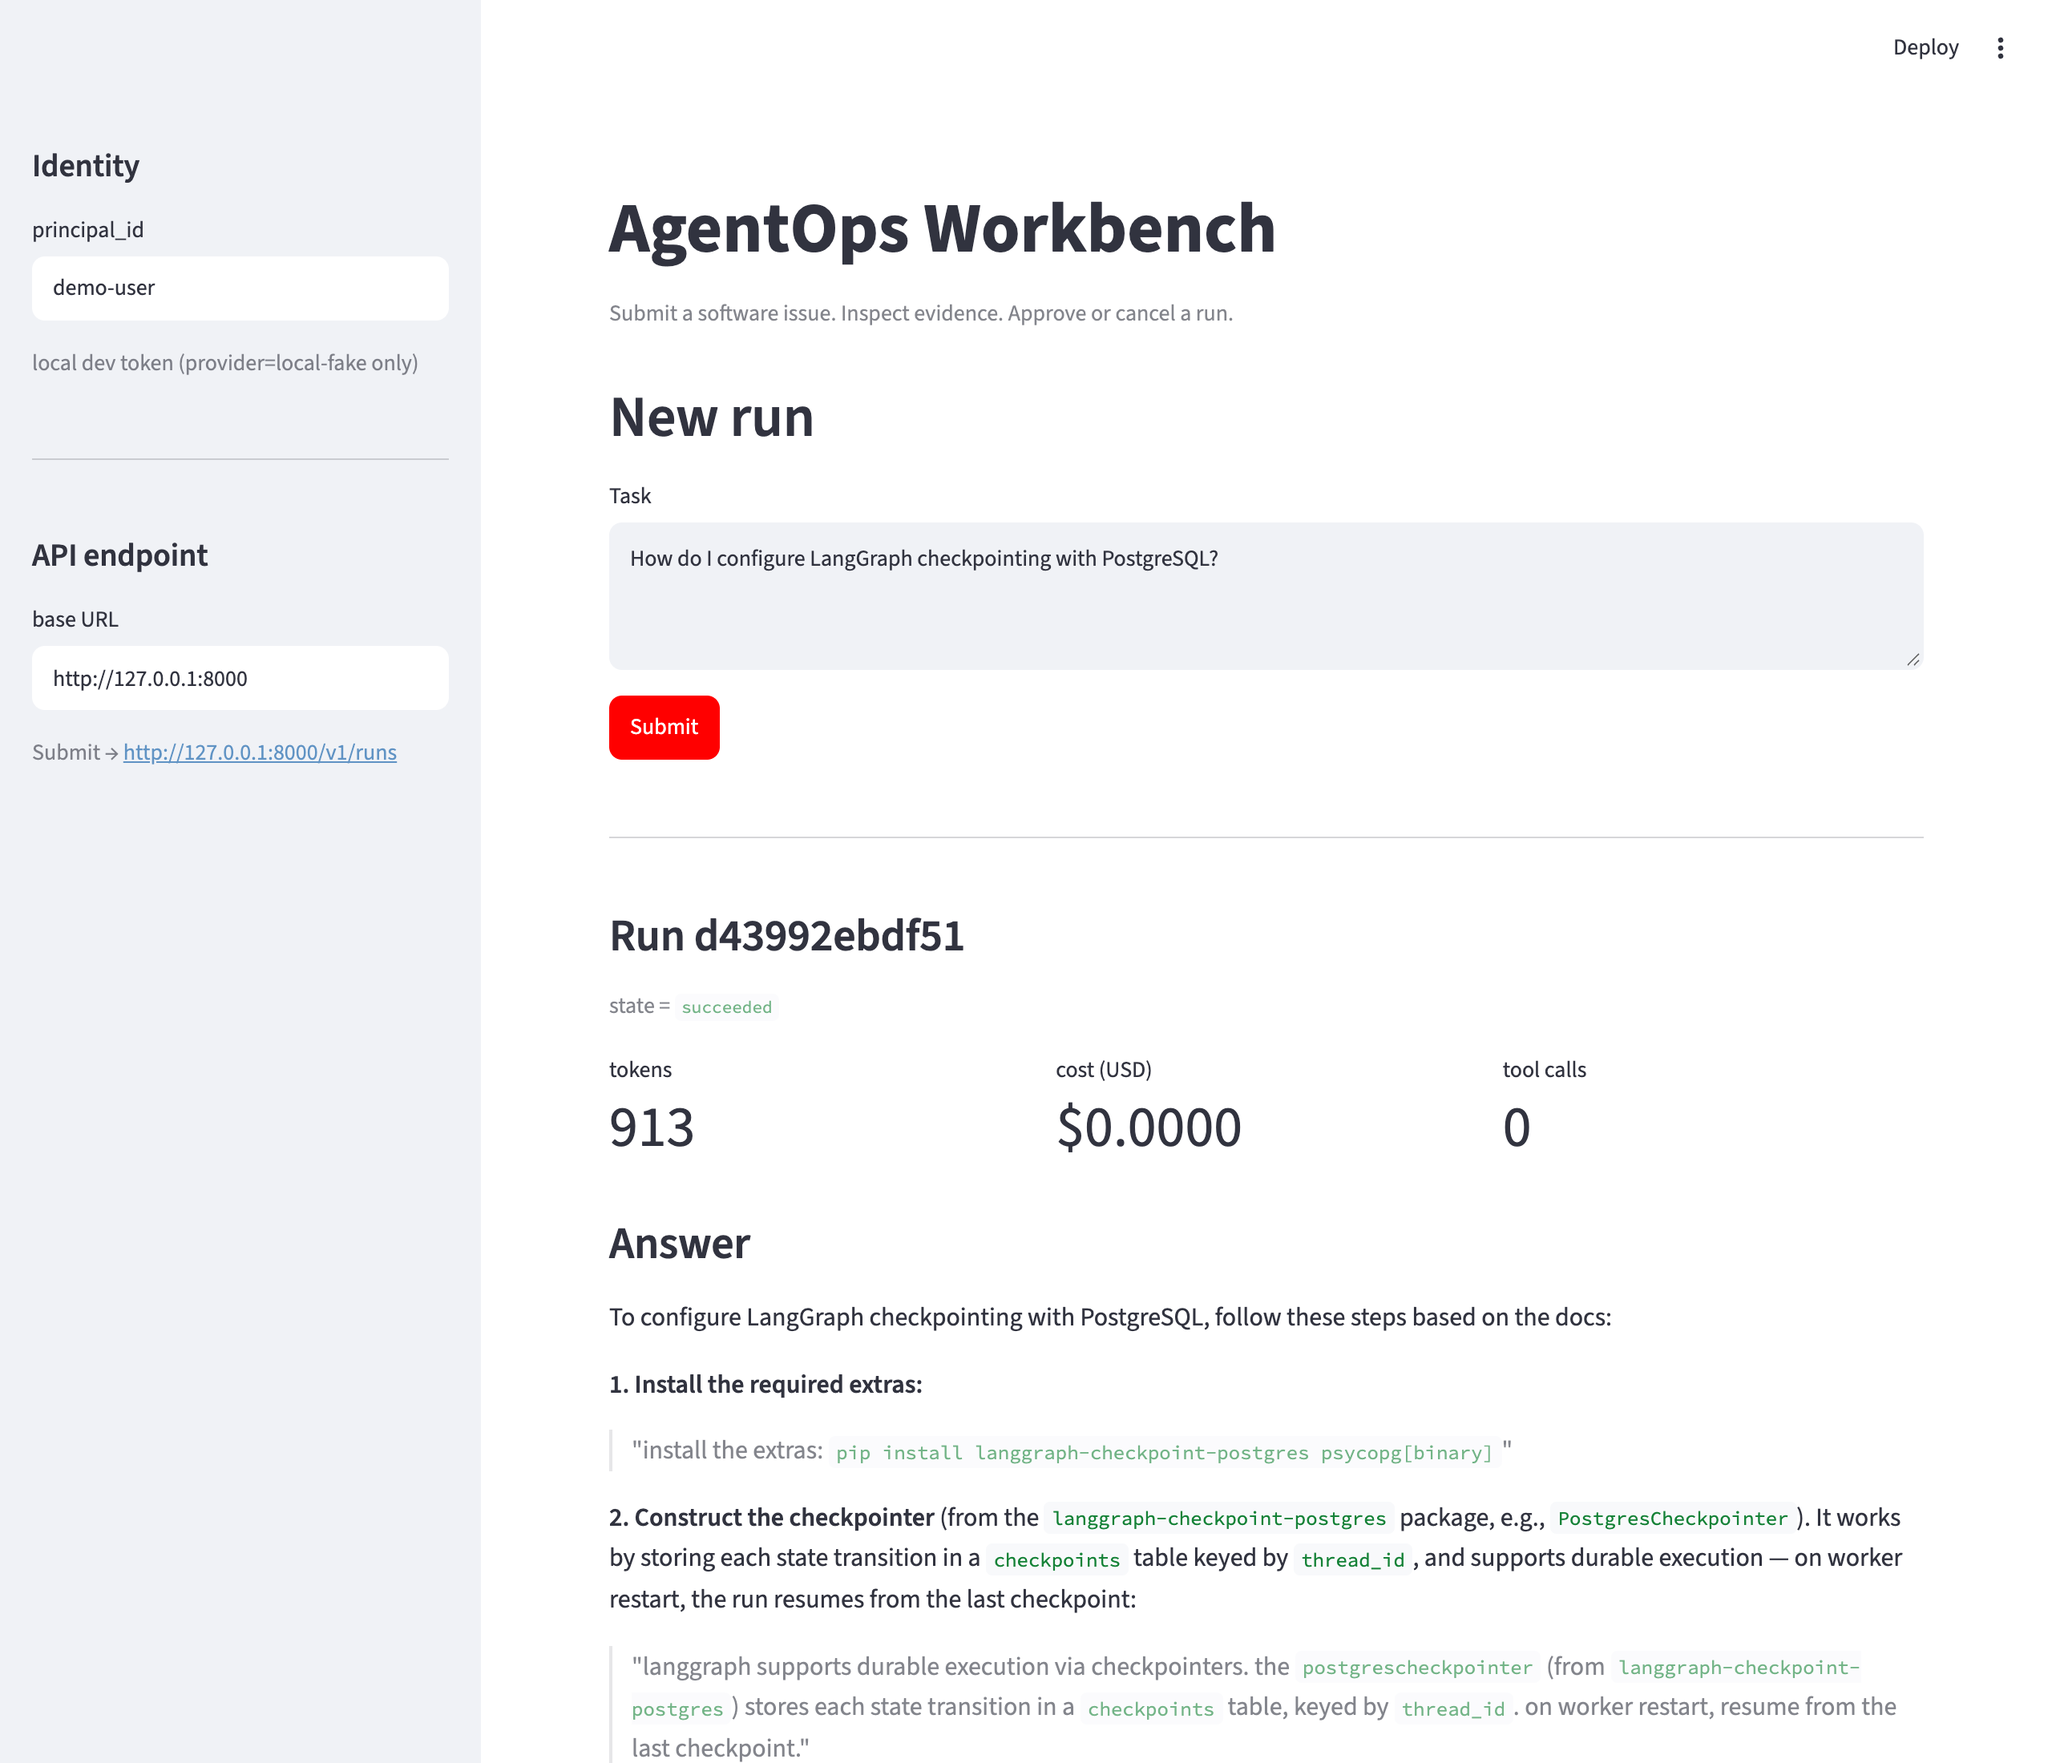
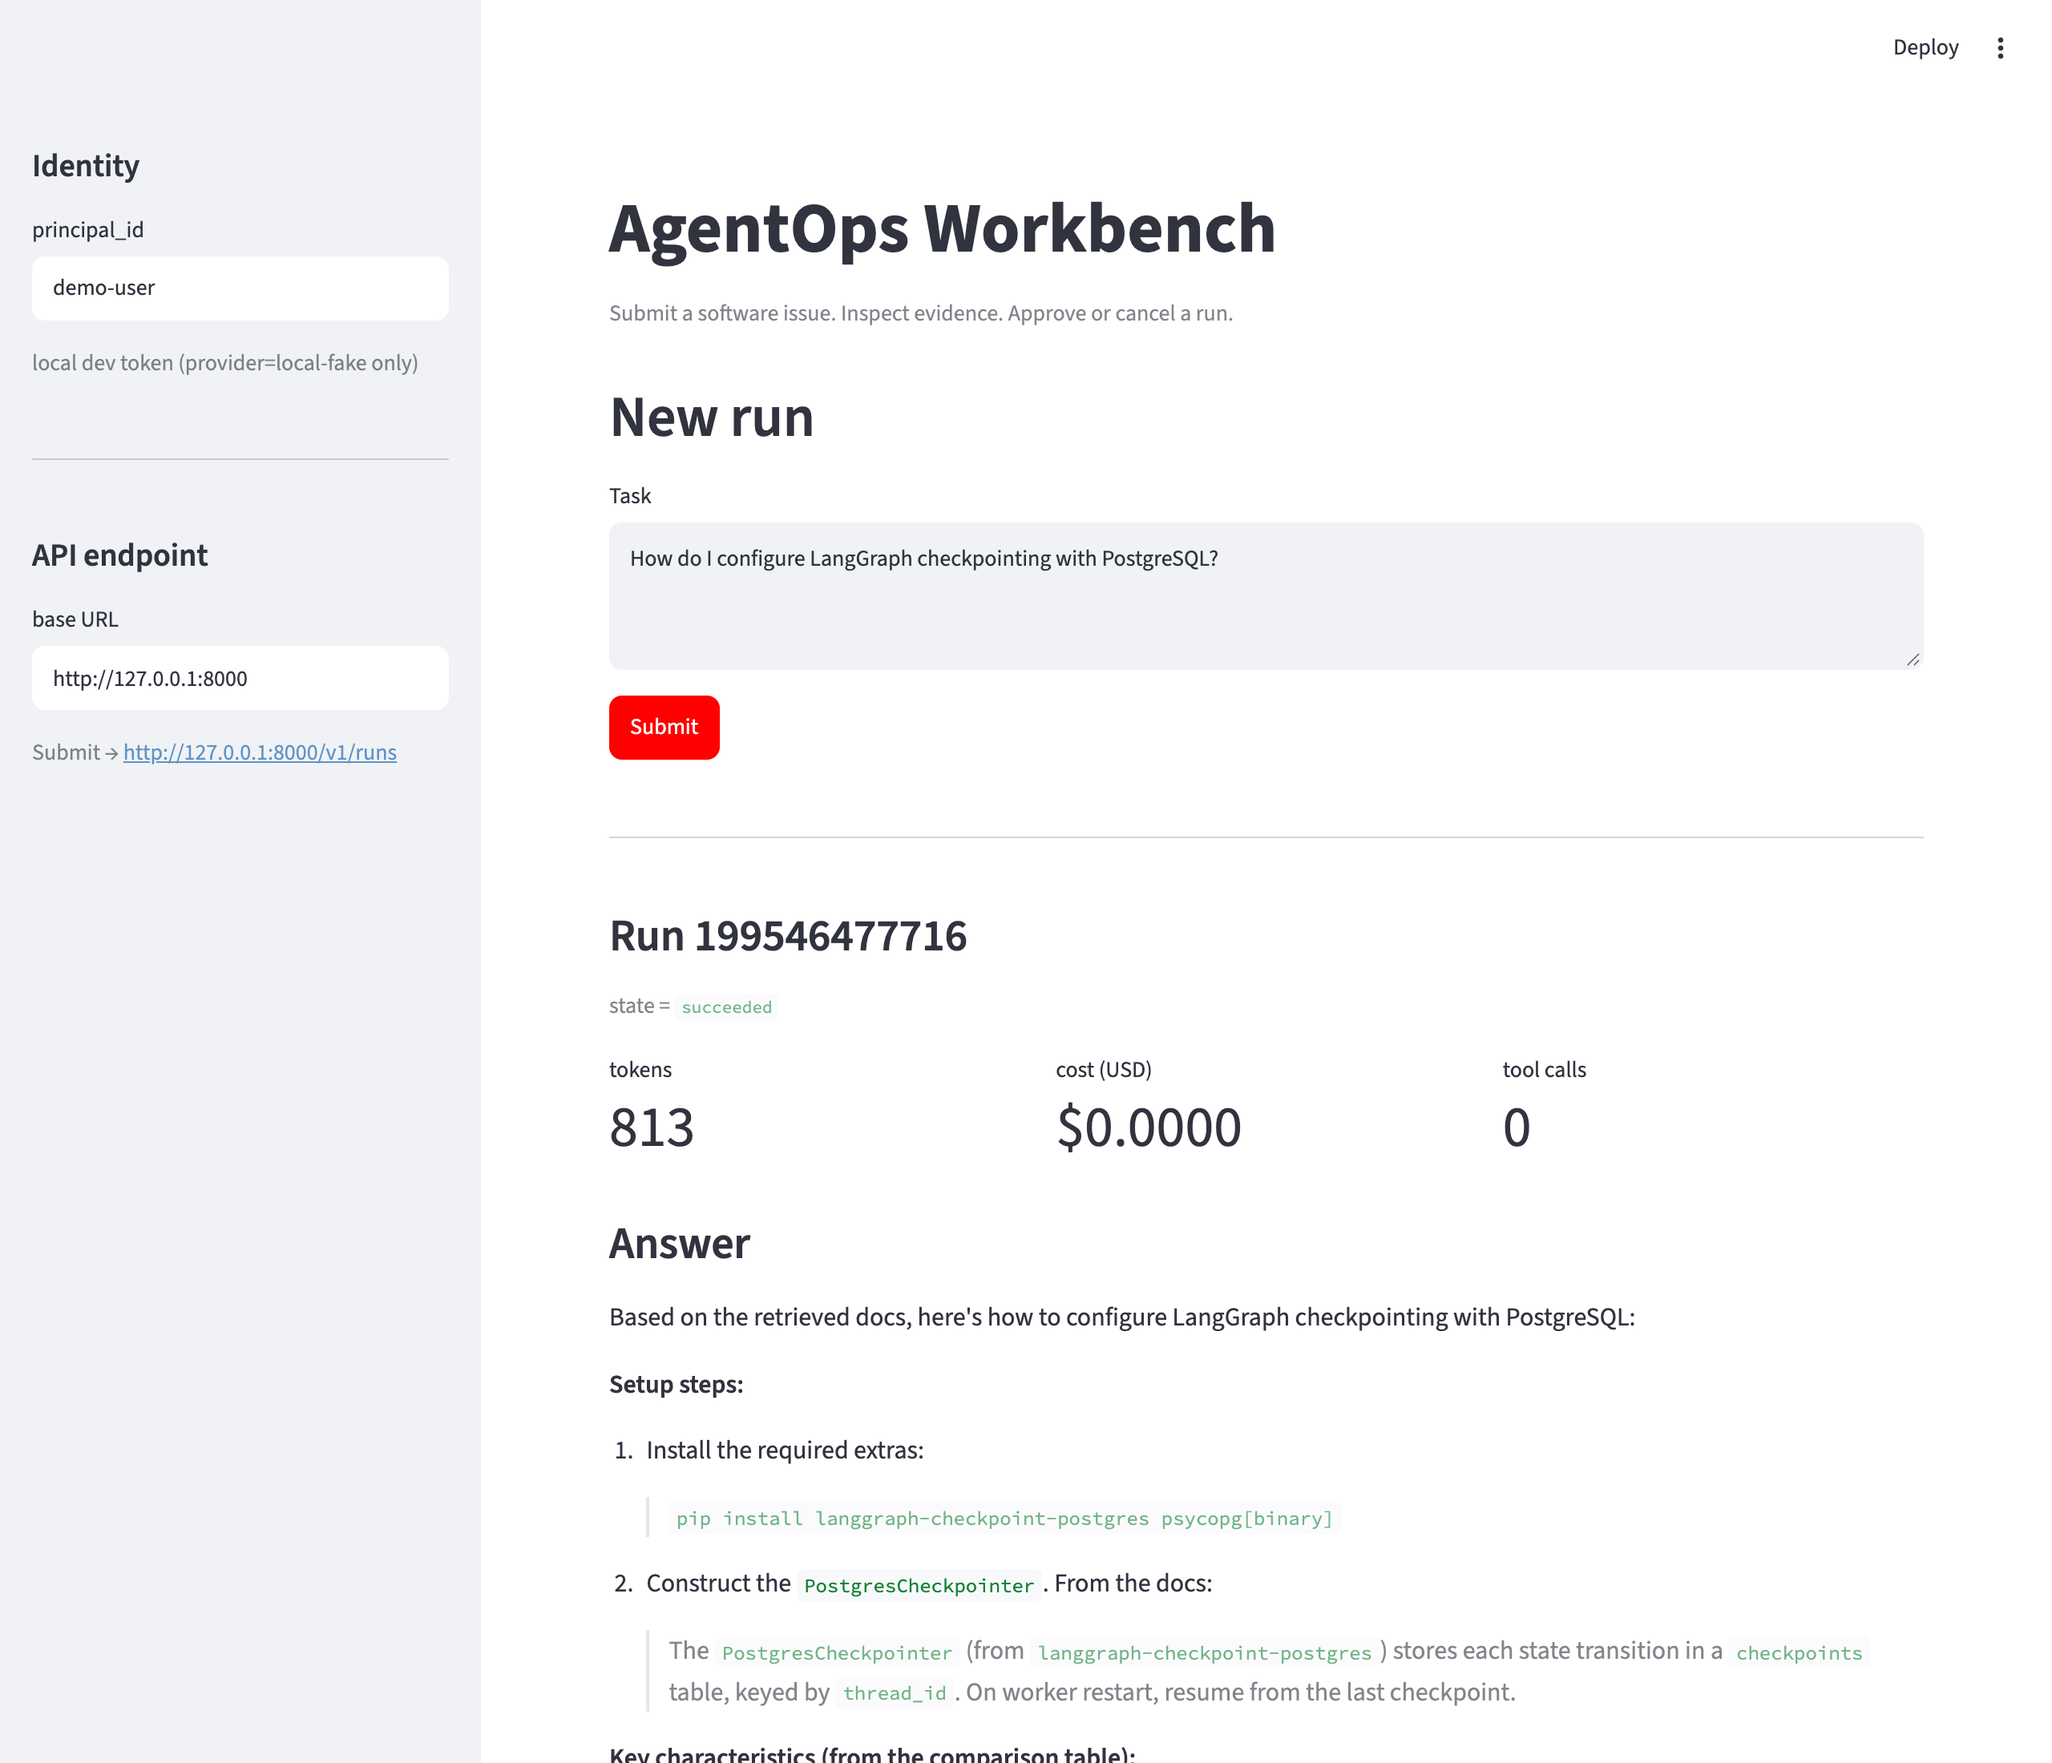
fix(workbench): address LLM review blockers in PR #15 (screenshot regen)
The /dev-kit:review (3-dim) LLM judge returned Verdict: Blocked on PR #15
with 2 critical + 3 major confirmed findings. This commit resolves all
five and the higher-confidence advisories.

Critical:
- C1: scripts/screenshot_streamlit.py imported playwright but
  pyproject.toml never declared it. Added playwright>=1.47 to
  [project.optional-dependencies].dev (uv.lock gains the package).
- C2: README's documented reproducer (uv run python scripts/...)
  crashed because uv sync --extra dev didn't install playwright.
  Fixed transitively by C1; added an explicit 'uv sync --extra dev'
  line before the script invocation in the README regen block.

Major:
- C4: Removed personal absolute path /Users/sanghee/dev/dev-harness-kit/.env
  from README; replaced with a generic .env example.
- C5: Replaced literal '<strong-32+>' JWT placeholder with a
  secrets.token_urlsafe(48) invocation in the README regen block;
  drops the AGENTOPS_ALLOW_DEV_TOKEN=1 from the screenshot recipe
  (Streamlit still has the env var exported in its own launch).
- C11: pyproject.toml actually gains playwright under dev (the
  earlier commit message claimed it did but only added an empty
  PEP 735 stub). Resolved: PEP 735 stub removed, the real entry
  lives under [project.optional-dependencies].dev.

Advisories addressed:
- C6: wait_until='networkidle' -> 'domcontentloaded' (Streamlit keeps
  a persistent /_stcore/stream WS open which never reaches networkidle).
[…]

diff --git a/apps/agentops-workbench/scripts/screenshot_streamlit.py b/apps/agentops-workbench/scripts/screenshot_streamlit.py
@@ -1,55 +1,166 @@
-"""Drive the running Streamlit UI via headless Chrome and capture screenshots.
+r"""Drive the running Streamlit UI via headless Chrome and capture screenshots.
+
+Requires the system Google Chrome (or Chromium) -- Playwright drives it via
+channel="chrome", so no playwright-bundled browser download is needed.
+An ephemeral profile is created per launch.
 
 Usage:
     uv run python scripts/screenshot_streamlit.py
 
 Captures:
     docs/screenshots/01_landing.png            — Streamlit landing (default task pre-loaded)
-    docs/screenshots/02_after_submit.png       — After clicking Submit, full result panel
+    docs/screenshots/02_after_submit.png       — LangGraph checkpointing query result
+    docs/screenshots/03_sqlite_query.png       — SQLite vs Postgres comparison query
+    docs/screenshots/04_unrelated_query.png    — Off-topic query (refusal path)
+    docs/screenshots/05_debug_endpoint.png     — /_debug/retrieve JSON response
+
+Notes:
+- Set AGENTOPS_SCREENSHOT_NO_SANDBOX=1 only when running as root
+  (some CI images). Default uses Chrome's sandbox.
+- Wait strategy is domcontentloaded (Streamlit's persistent /_stcore/stream
+  WebSocket never reaches networkidle).
 """
 from __future__ import annotations
 
+import json
+import urllib.parse
+import urllib.request
+import os
 from pathlib import Path
 
 from playwright.sync_api import sync_playwright
 
 
 STREAMLIT_URL = "http://127.0.0.1:8501/"
+API_BASE = "http://127.0.0.1:8000"
 OUT_DIR = Path(__file__).resolve().parent.parent / "docs" / "screenshots"
 OUT_DIR.mkdir(parents=True, exist_ok=True)
 
 
+SCENARIOS = [
+    # (filename_stem, task_text, output_filename)
+    (
+        "02_after_submit",
+        "How do I configure LangGraph checkpointing with PostgreSQL?",
+    ),
+    (
+        "03_sqlite_query",
+        "When should I use SqliteCheckpointer instead of PostgresCheckpointer?",
+    ),
+    (
+        "04_unrelated_query",
+        "How do I bake sourdough bread?",
+    ),
+]
+
+
+def submit_and_capture(page, task_text: str, out_path: Path) -> None:
+    """Type the task into the textarea, click Submit, wait for the answer, screenshot."""
+    page.wait_for_selector("textarea", timeout=10_000)
+    textarea = page.locator("textarea").first
+    textarea.click()
+    # Clear via select-all + delete (Streamlit text_area can hold multiline)
+    textarea.press("ControlOrMeta+A")
+    textarea.press("Delete")
+    textarea.fill(task_text)
+    page.wait_for_timeout(400)
+
+    submit = page.get_by_role("button", name="Submit")
+    submit.scroll_into_view_if_needed()
+    submit.click()
+
+    # Wait for the run row to appear with a non-empty Answer section.
+    page.wait_for_selector("h3:has-text('Answer')", timeout=20_000)
+    page.wait_for_timeout(2000)  # let the answer render
+    page.screenshot(path=str(out_path), full_page=True)
+    print(f"  saved: {out_path.relative_to(OUT_DIR.parent.parent)}")
+
+
 def main() -> None:
     with sync_playwright() as pw:
-        # Use the system Chrome (Google Chrome.app) so we don't depend on
-        # playwright's bundled chromium download succeeding.
+        # --no-sandbox is needed when running as root (some CI images). Opt-in
+        # via env var; default is the safer Chrome sandbox.
+        args = ["--disable-dev-shm-usage"]
+        if os.environ.get("AGENTOPS_SCREENSHOT_NO_SANDBOX") == "1":
+            args.append("--no-sandbox")
+        # channel="chrome" uses the system Chrome at /Applications/Google Chrome.app
+        # (macOS), /usr/bin/google-chrome (Linux), or the Chrome install on
+        # Windows. An ephemeral profile is created per launch so we never
+        # collide with the user's logged-in session.
         browser = pw.chromium.launch(
             channel="chrome",
             headless=True,
-            args=["--no-sandbox", "--disable-dev-shm-usage"],
+            args=args,
         )
         ctx = browser.new_context(viewport={"width": 1280, "height": 1100}, device_scale_factor=2)
         page = ctx.new_page()
-        page.goto(STREAMLIT_URL, wait_until="networkidle", timeout=30_000)
 
-        # 1) Landing page (default task pre-loaded in the text area).
+        # 1) Landing page.
+        page.goto(STREAMLIT_URL, wait_until="domcontentloaded", timeout=30_000)
         page.wait_for_selector("textarea", timeout=10_000)
-        page.wait_for_timeout(1500)  # let streamlit settle
-        landing = OUT_DIR / "01_landing.png"
-        page.screenshot(path=str(landing), full_page=True)
-        print(f"  saved: {landing.relative_to(OUT_DIR.parent.parent)}")
-
-        # 2) Click Submit and capture the result panel.
-        submit = page.get_by_role("button", name="Submit")
-        submit.scroll_into_view_if_needed()
-        submit.click()
-
-        # Wait for the Answer markdown to appear.
-        page.wait_for_selector("h3:has-text('Answer')", timeout=20_000)
         page.wait_for_timeout(1500)
-        result = OUT_DIR / "02_after_submit.png"
-        page.screenshot(path=str(result), full_page=True)
-        print(f"  saved: {result.relative_to(OUT_DIR.parent.parent)}")
+        page.screenshot(path=str(OUT_DIR / "01_landing.png"), full_page=True)
+        print(f"  saved: docs/screenshots/01_landing.png")
+
+        # 2-4) Each scenario: re-load the page fresh, submit, screenshot.
+        for stem, task in SCENARIOS:
+            page.goto(STREAMLIT_URL, wait_until="domcontentloaded", timeout=30_000)
+            page.wait_for_selector("textarea", timeout=10_000)
+            page.wait_for_timeout(800)
+            submit_and_capture(page, task, OUT_DIR / f"{stem}.png")
+
+        browser.close()
+
+    # 5) The /_debug/retrieve endpoint — not a browser screenshot, but a
+    # machine-readable capture of the exact JSON the API returns for the
+    # default task. Render it as a styled HTML page and screenshot that.
+    with sync_playwright() as pw:
+        # --no-sandbox is needed when running as root (some CI images). Opt-in
+        # via env var; default is the safer Chrome sandbox.
+        args = ["--disable-dev-shm-usage"]
+        if os.environ.get("AGENTOPS_SCREENSHOT_NO_SANDBOX") == "1":
+            args.append("--no-sandbox")
+        # channel="chrome" uses the system Chrome at /Applications/Google Chrome.app
+        # (macOS), /usr/bin/google-chrome (Linux), or the Chrome install on
+        # Windows. An ephemeral profile is created per launch so we never
+        # collide with the user's logged-in session.
+        browser = pw.chromium.launch(
+            channel="chrome",
+            headless=True,
+            args=args,
+        )
+        ctx = browser.new_context(viewport={"width": 1280, "height": 1100}, device_scale_factor=2)
+        page = ctx.new_page()
+
+        task = "How do I configure LangGraph checkpointing with PostgreSQL?"
+        with urllib.request.urlopen(
+            f"{API_BASE}/_debug/retrieve?task={urllib.parse.quote(task)}", timeout=10
+        ) as resp:
+            payload = json.loads(resp.read())
+
+        html = f"""<!doctype html>
+<html><head><meta charset='utf-8'><title>Debug retrieve</title>
+<style>
+  body {{ font-family: ui-monospace, 'SF Mono', Menlo, Consolas, monospace;
+          background: #f6f7f9; margin: 0; padding: 32px; color: #1f2937; }}
+  h1 {{ font-size: 22px; margin: 0 0 16px; }}
+  pre {{ background: #fff; border: 1px solid #d1d5db; border-radius: 8px;
+         padding: 18px; font-size: 13px; line-height: 1.5; overflow: auto;
+         white-space: pre-wrap; word-wrap: break-word; }}
+  .matched {{ color: #047857; font-weight: 600; }}
+  .unmatched {{ color: #b91c1c; font-weight: 600; }}
+  .doc {{ margin: 6px 0; }}
+  .stem {{ color: #6b21a8; font-weight: 600; }}
+</style></head>
+<body>
+<h1>GET /_debug/retrieve?task={urllib.parse.quote(task)}</h1>
+<pre>{json.dumps(payload, indent=2)}</pre>
+</body></html>"""
+        page.set_content(html)
+        page.wait_for_load_state("networkidle", timeout=10_000)
+        page.wait_for_timeout(500)
+        page.screenshot(path=str(OUT_DIR / "05_debug_endpoint.png"), full_page=True)
+        print(f"  saved: docs/screenshots/05_debug_endpoint.png")
 
         browser.close()
 

diff --git a/apps/agentops-workbench/README.md b/apps/agentops-workbench/README.md
@@ -27,10 +27,16 @@ AGENTOPS_PROVIDER=minimax uv run streamlit run streamlit_app/app.py
 
 ## Live provider setup
 
-`provider=local-fake` is the dev default; `provider=minimax` is the live default for live experiments. A working
-`MINIMAX_API_KEY` lives at `/Users/sanghee/dev/dev-harness-kit/.env`
-(variable name `MINIMAX_API_KEY`). Copy that value into this app's
-`.env` (gitignored). CI uses `provider=local-fake` and needs no key.
+`provider=local-fake` is the dev default. For live experiments, set `provider=minimax` (or `anthropic`). Get a key from your MiniMax dashboard and put it into your local `.env`
+(this file is gitignored):
+
+```
+AGENTOPS_PROVIDER=minimax
+AGENTOPS_MINIMAX_API_KEY=<your-key-here>
+AGENTOPS_MINIMAX_BASE_URL=https://api.minimax.io/v1   # or .chat, per your account
+```
+
+CI uses `provider=local-fake` and needs no key.
 
 **Never commit a populated `.env`.**
 
@@ -44,18 +50,22 @@ download required).
 | Step | Capture |
 |------|---------|
 | Operator opens the UI; default task is pre-loaded; the dev-token path auto-mints for `provider=local-fake` | ![Streamlit landing](docs/screenshots/01_landing.png) |
-| After clicking **Submit**, the run panel shows state/tokens/cost/tool-calls and the synthesized answer that quotes doc-001 + doc-002 from the corpus | ![Streamlit after submit](docs/screenshots/02_after_submit.png) |
+| After clicking **Submit** on the default LangGraph query, the run panel shows state/tokens/cost/tool-calls and the synthesized answer that quotes doc-001 + doc-002 from the corpus | ![Streamlit after submit](docs/screenshots/02_after_submit.png) |
+| SqliteCheckpointer vs PostgresCheckpointer query — different retrieval ranking + comparison-table answer from doc-002 | ![Streamlit sqlite query](docs/screenshots/03_sqlite_query.png) |
+| Off-topic query ("How do I bake sourdough bread?") — server-side refusal path with `_REFUSE_MESSAGE` | ![Streamlit unrelated query](docs/screenshots/04_unrelated_query.png) |
+| `/_debug/retrieve?task=...` JSON output — web-debug surface to inspect what the agent would surface BEFORE running a full `/v1/runs` cycle | ![Debug endpoint](docs/screenshots/05_debug_endpoint.png) |
 
 To regenerate after a UI change:
 
 ```bash
-# 1) Make sure both servers are up:
-AGENTOPS_JWT_SECRET="<strong-32+>" AGENTOPS_ALLOW_DEV_TOKEN=1 \
-  uv run uvicorn agentops_workbench.api.server:app --port 8000 &
-AGENTOPS_JWT_SECRET="<strong-32+>" AGENTOPS_ALLOW_DEV_TOKEN=1 \
+# 1) Generate a strong JWT secret and start both servers:
+JWT=$(python3 -c 'import secrets; print(secrets.token_urlsafe(48))')
+AGENTOPS_JWT_SECRET="$JWT" uv run uvicorn agentops_workbench.api.server:app --port 8000 &
+AGENTOPS_JWT_SECRET="$JWT" AGENTOPS_ALLOW_DEV_TOKEN=1 \
   uv run streamlit run streamlit_app/app.py &
 
-# 2) Drive headless Chrome and write the new PNGs into docs/screenshots/:
+# 2) Install the screenshot script's browser driver and regenerate the PNGs:
+uv sync --extra dev
 uv run python scripts/screenshot_streamlit.py
 ```
 
